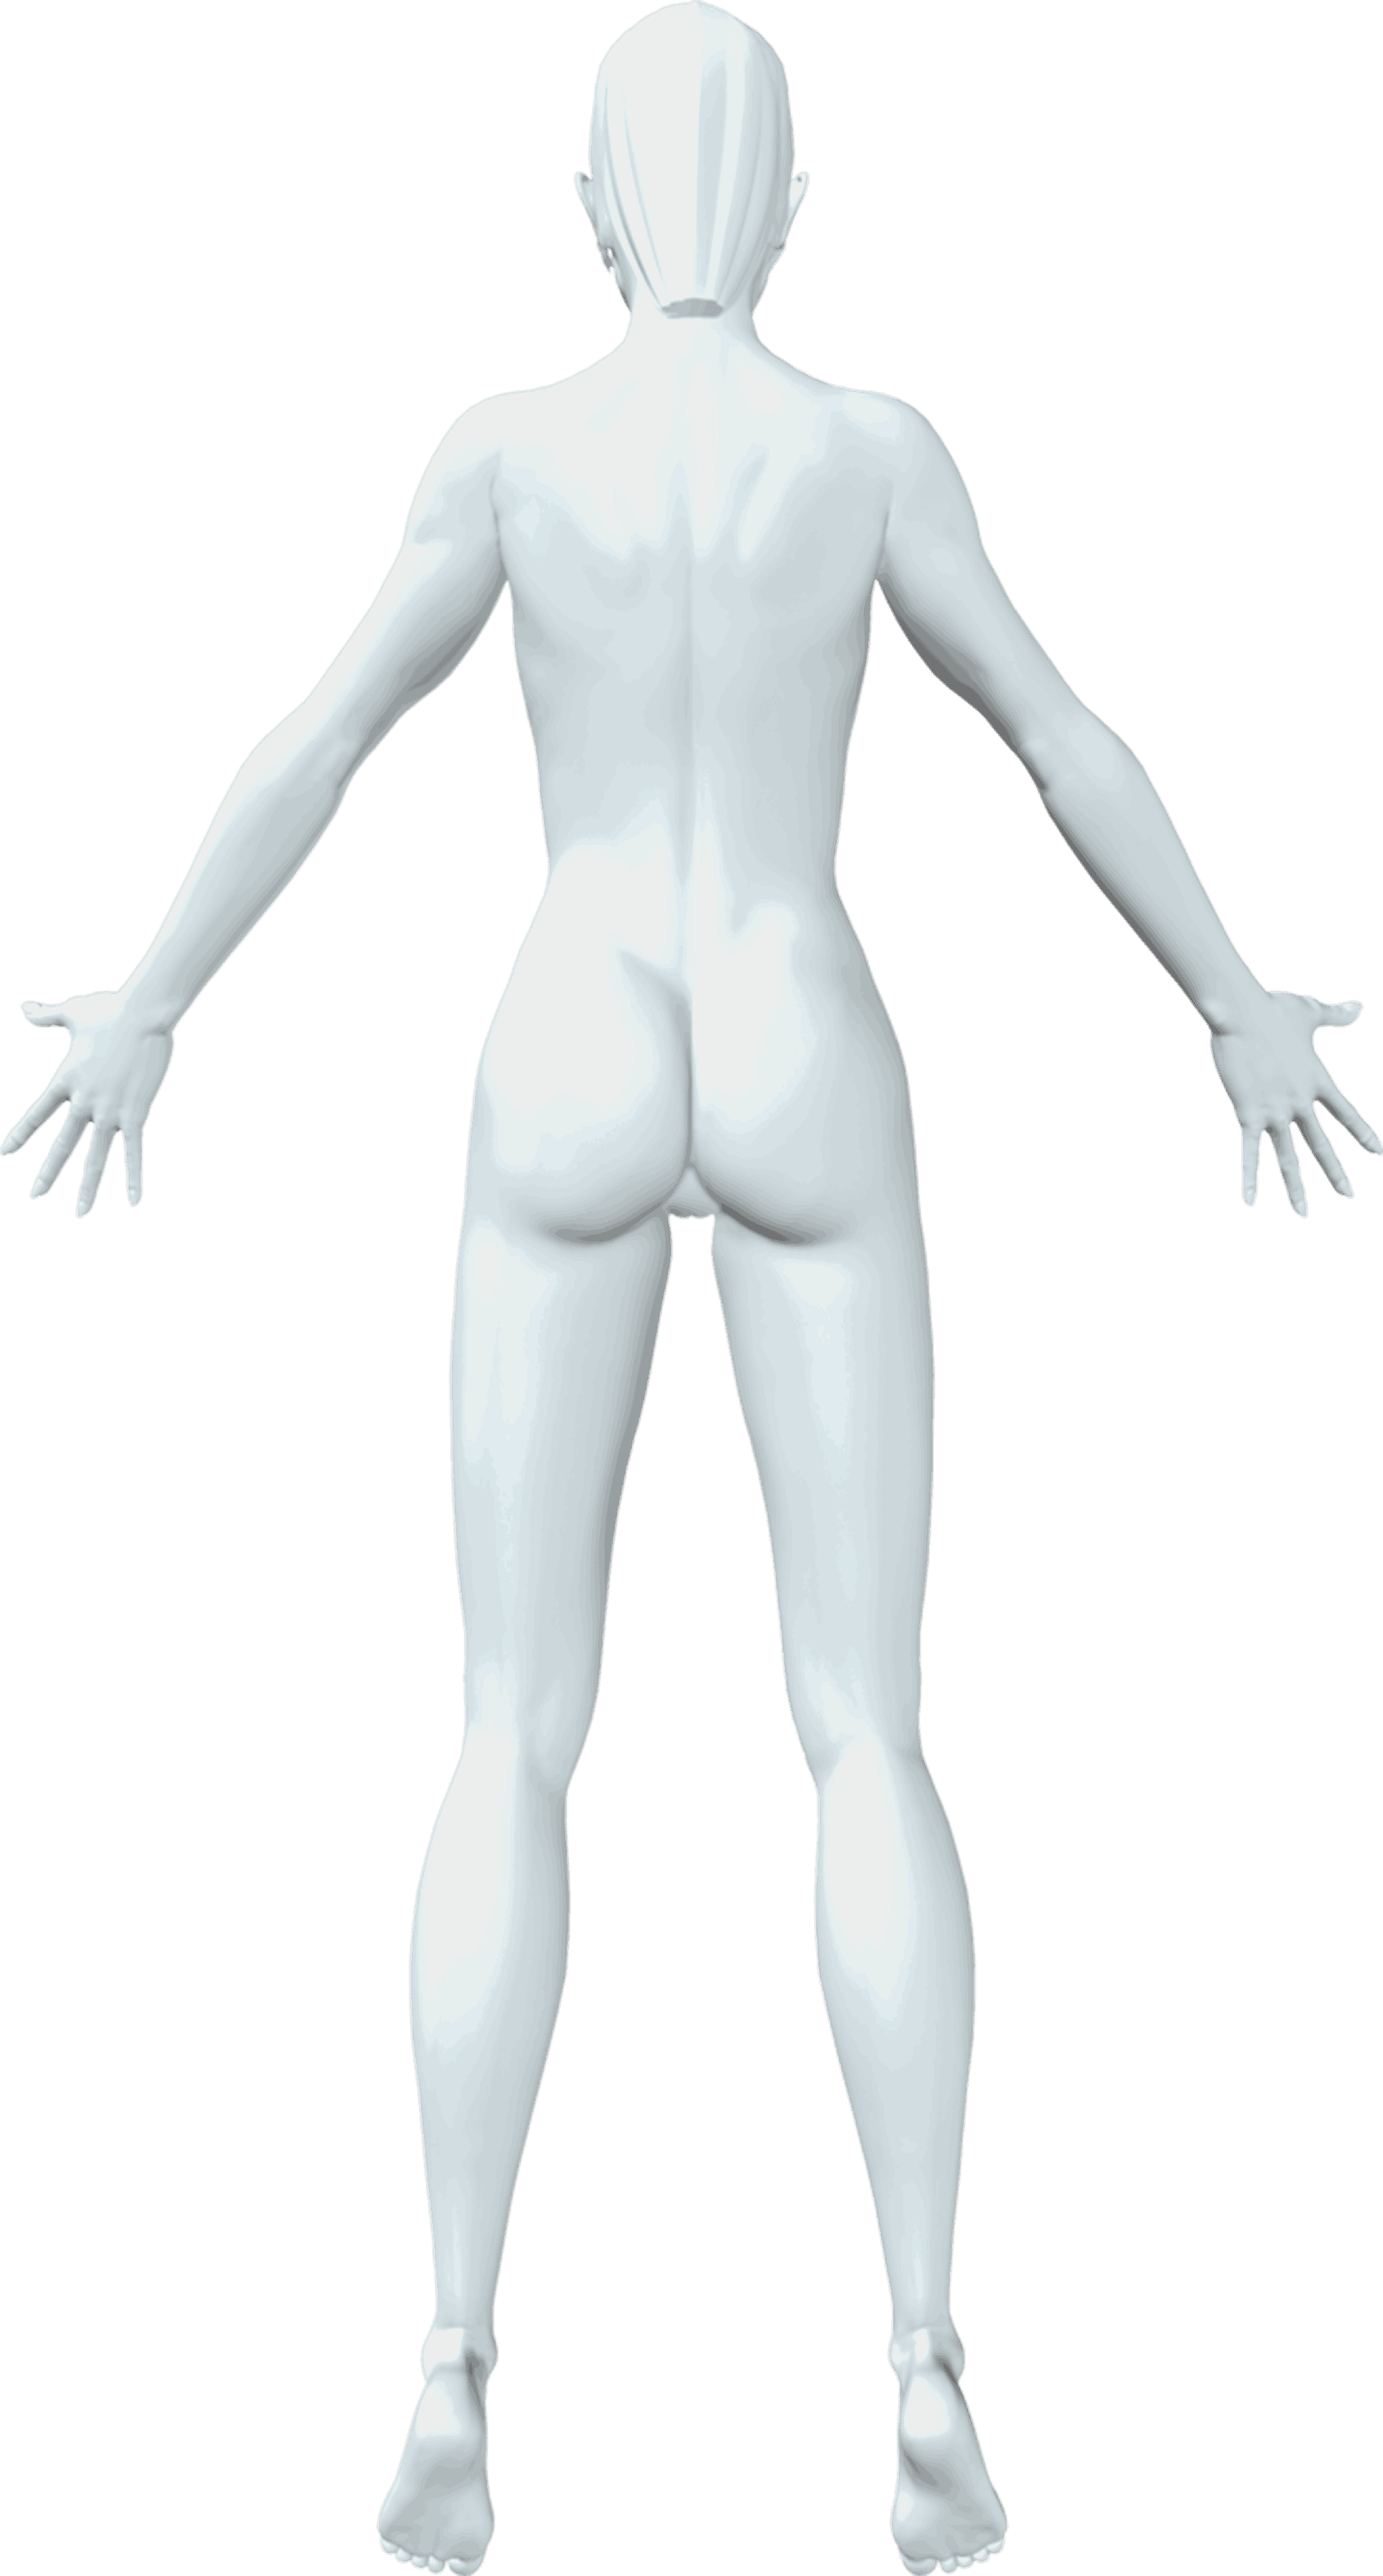
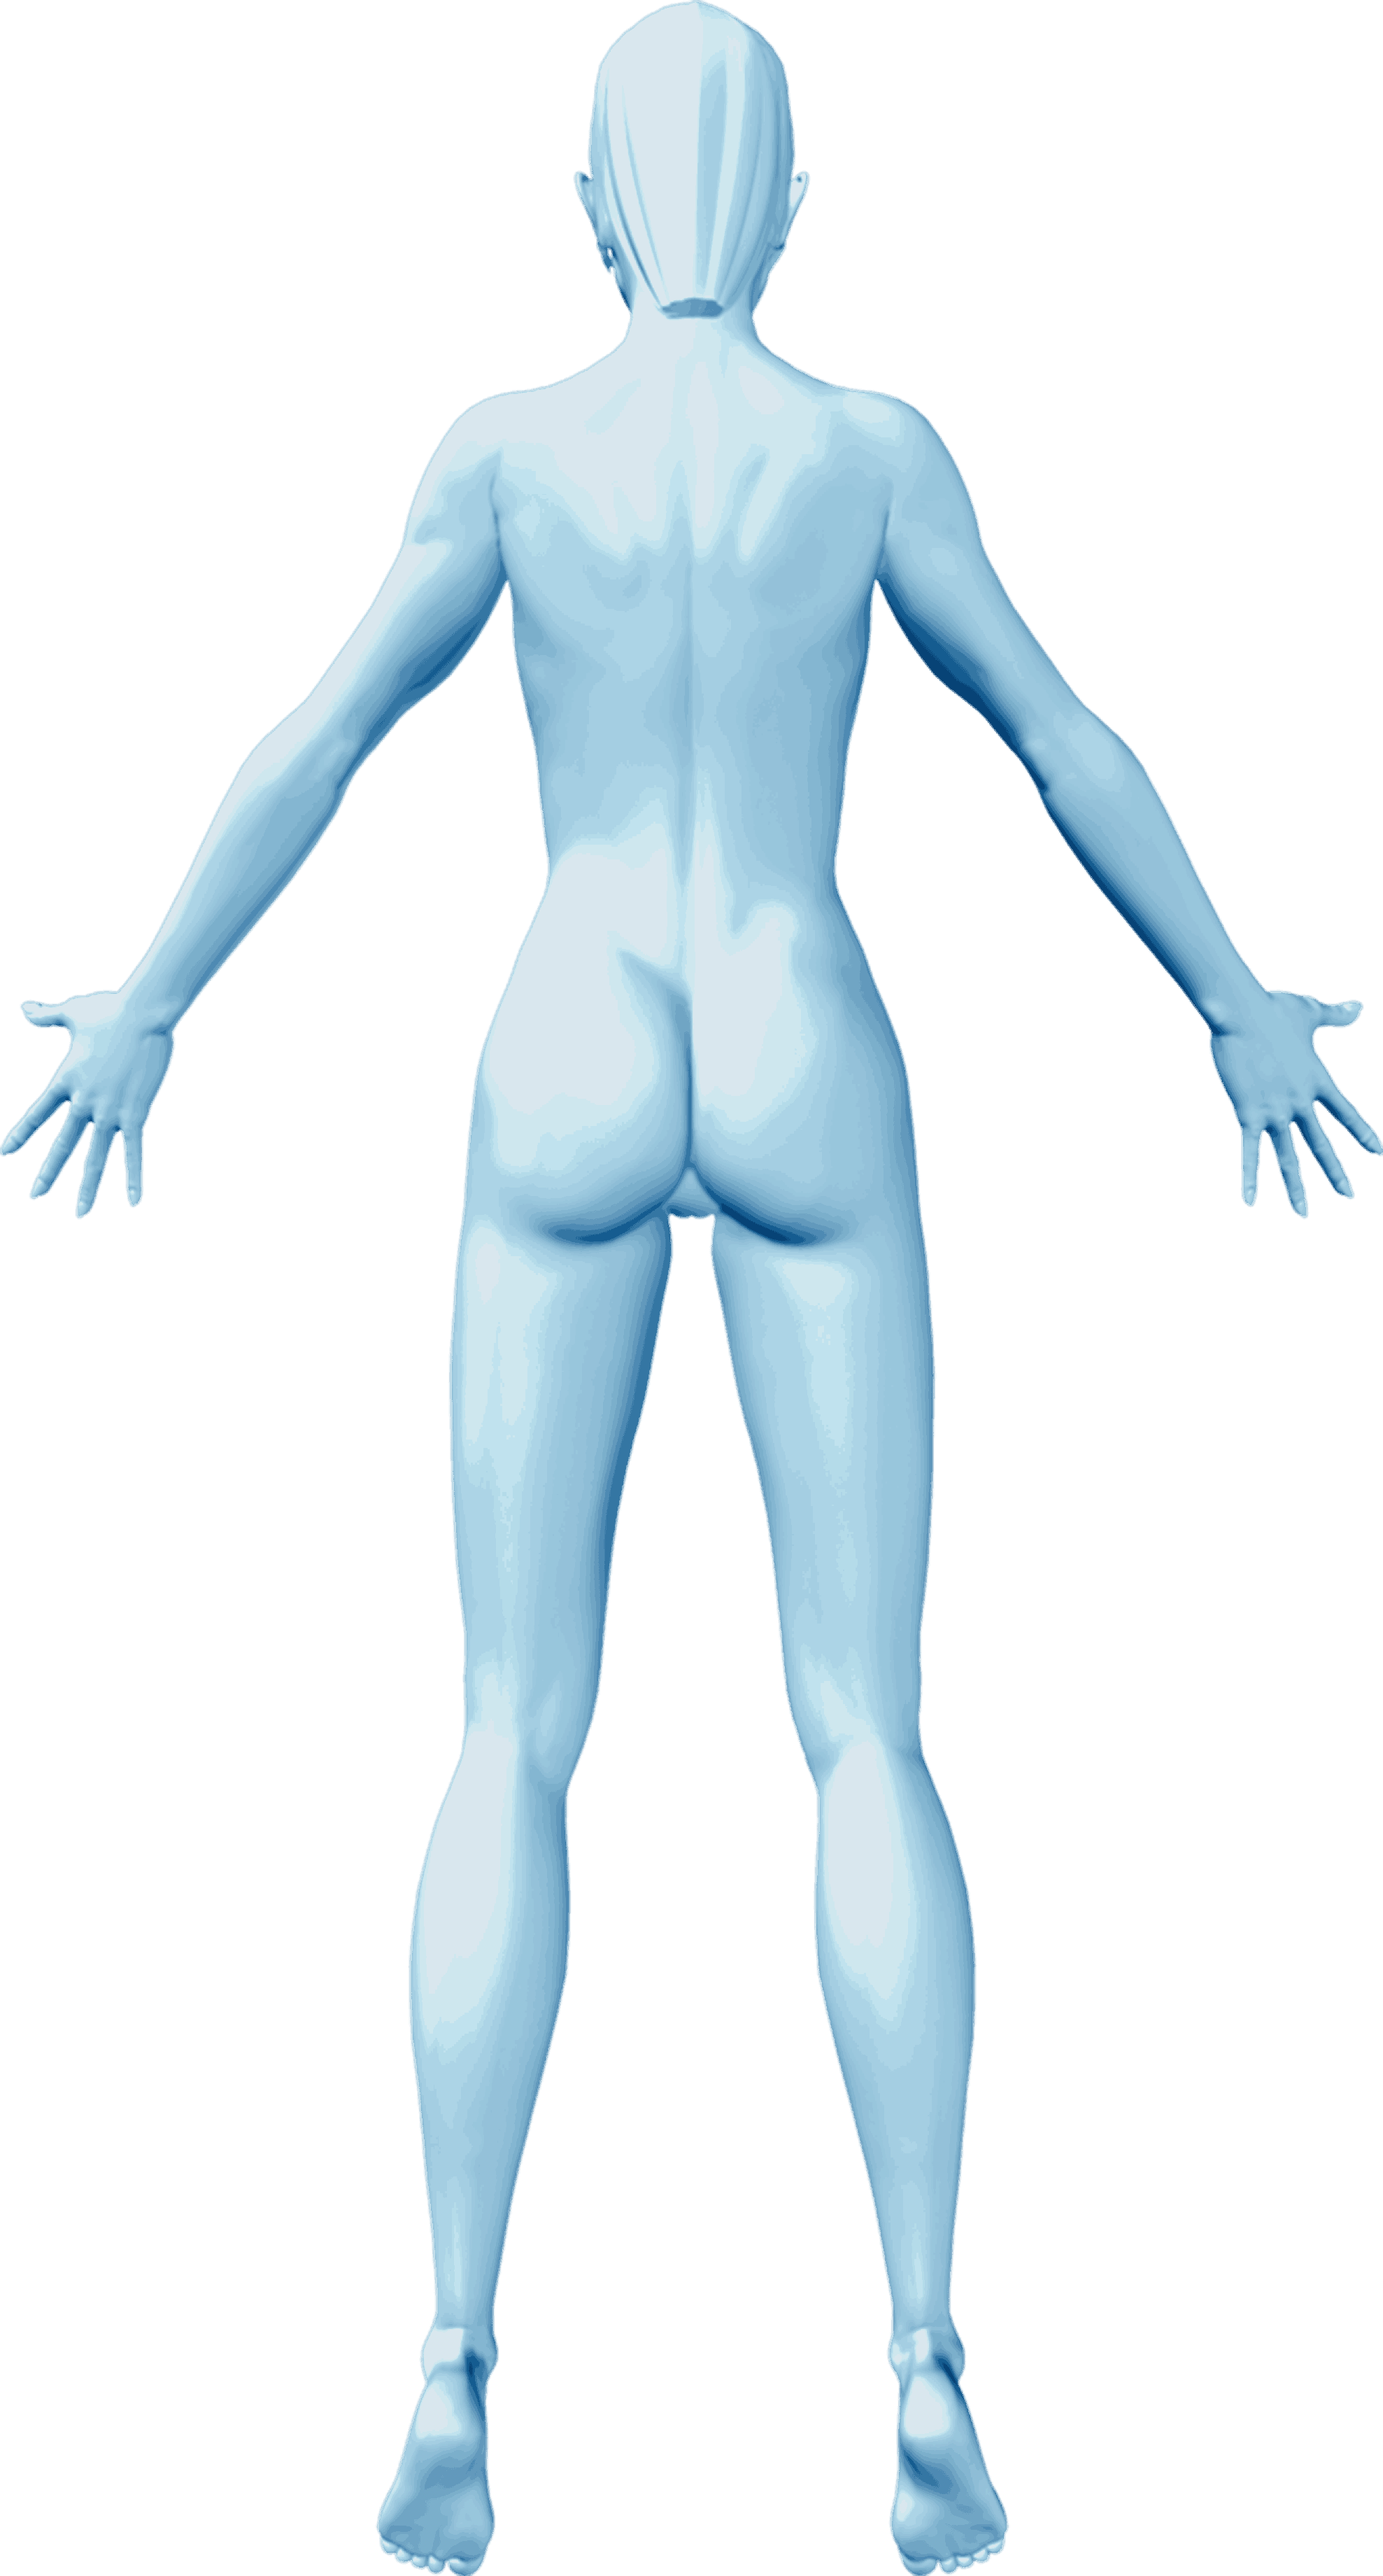
图片背景更新

Changed region(s): [[0.0, 0.0, 1.0, 1.0]]

diff --git a/src/views/About.vue b/src/views/About.vue
@@ -18,9 +18,9 @@
         v-for="(value,index) in pathList"
         :key="index"
         class="layers layer-show"
-        fill="#27BFCF"
+        fill="#f34c4c"
         fill-rule="evenodd"
-        opacity=".3"
+        opacity=".8"
         v-bind:d="value.d"
         v-bind:transform="value.transform"
         @click="getLevelTwo('HEAD_1',1)"
@@ -177,6 +177,8 @@ export default {
 .person-svg {
   width: 100vw;
   height: 100vh;
+  background: url('../assets/svgBg.png');
+  background-size: cover;
 }
 #full-body {
   display: block;

diff --git a/person.html b/person.html
@@ -705,7 +705,7 @@
   <script>
     $(function () {
       let pathList = $('path');
-      
+      console.log(pathList.attributes)
       let svgPath = {}
       let malefd1 = {},
         malefd2 = {},
